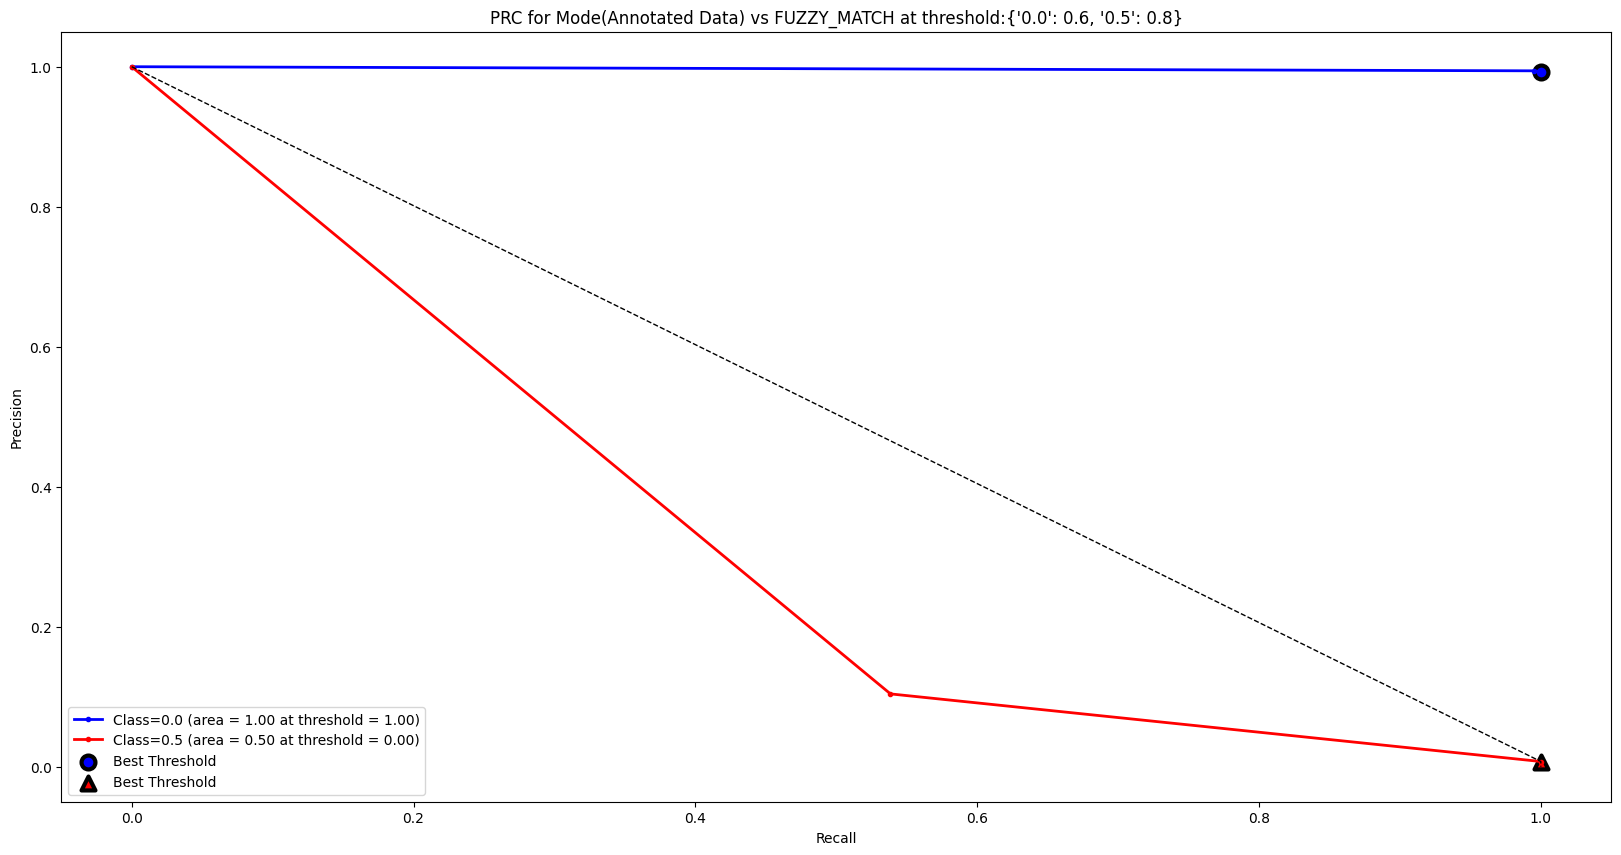
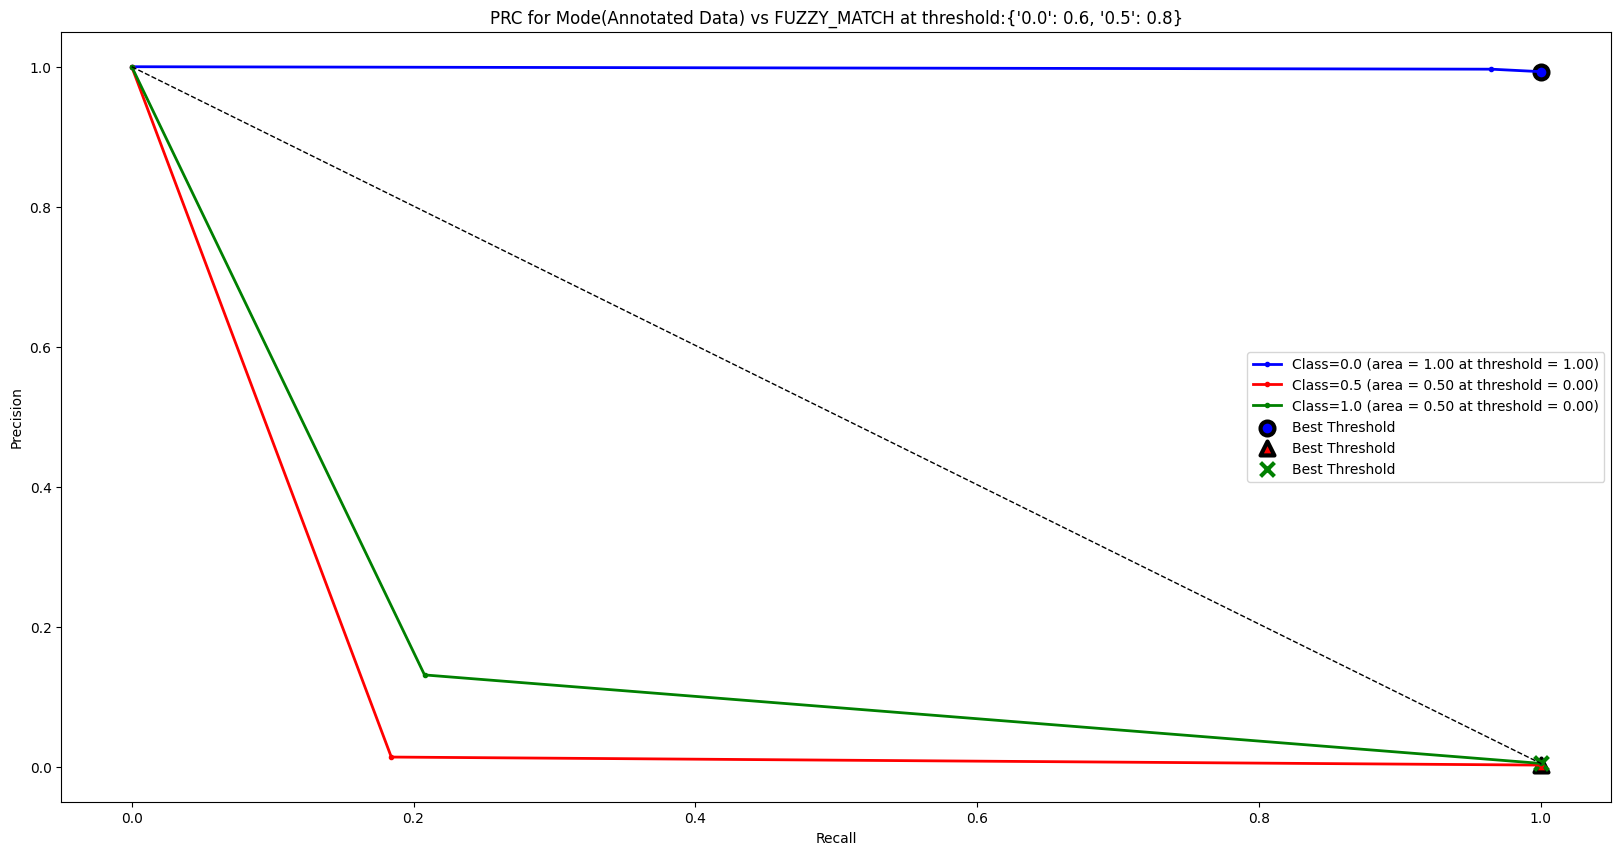
2

diff --git a/Implementation/AnnotatedDataHandler_2.py b/Implementation/AnnotatedDataHandler_2.py
@@ -101,7 +101,6 @@ class AnnotatedDataHandler:
         self.max_prc_dict = {}
         # Plot accessories
         self.classes = [self.class_unrelated, self.class_related, self.class_equal]
-        # self.classes = [self.class_unrelated, self.class_related]
         self.marker_set = ["o", "^", "x"]
         self.color_set = ["blue", "red", "green"]
         # Directories
@@ -144,8 +143,8 @@ class AnnotatedDataHandler:
                     if not isComputed:
                         attr = self.convertAnnotatedAttrValue(attr)
                     else:
-                        # attr = self.convertComputedAttrValue(attr, thresholds)
-                        attr = attr.strip()
+                        attr = self.convertComputedAttrValue(attr, thresholds)
+                        # attr = attr.strip()
                     cellData.append(attr)
                 if len(cellData) > 0:
                     data.append(cellData)
@@ -173,8 +172,8 @@ class AnnotatedDataHandler:
                     if not isComputed:
                         attr = self.convertAnnotatedAttrValue(attr)
                     else:
-                        # attr = self.convertComputedAttrValue(attr, thresholds)
-                        attr = attr.strip()
+                        attr = self.convertComputedAttrValue(attr, thresholds)
+                        # attr = attr.strip()
 
                     if attr == '':
                         self.log(["rowIterator:", rowIterator, ",colIterator:", colIterator, ",attr:", attr], "DEBUG")
@@ -248,7 +247,7 @@ class AnnotatedDataHandler:
         elif self.isFloat(attr) and thresholds[self.class_unrelated] <= float(attr) < thresholds[self.class_related]:
             return self.class_related
         elif self.isFloat(attr) and thresholds[self.class_related] <= float(attr):
-            return self.class_related
+            return self.class_equal
 
         # check if some float value was missed
         if self.isFloat(attr):
@@ -267,7 +266,7 @@ class AnnotatedDataHandler:
         elif attr == '<' or attr == '>':
             attr = self.class_related
         elif attr == '1':
-            attr = self.class_related
+            attr = self.class_equal
         # elif attr == '>':
         #     attr = "1.5"
 
@@ -347,20 +346,20 @@ class AnnotatedDataHandler:
             self.computed_data[model] = annotatedDataHandler.readCSVWithoutHeaders(
                 'Data/' + self.computational_iteration + "/" + str(
                     model) + '-table-V-' + syn_sem_threshold + '.csv',
-                True, thresholds={})
+                True, thresholds)
         else:
             self.computed_data[model] = annotatedDataHandler.readCSV(
                 'Data/' + self.computational_iteration + "/" + str(
                     model) + '-table-V-' + syn_sem_threshold + '.csv',
-                True, thresholds={})
+                True, thresholds)
         return self.computed_data[model]
 
     def readAllComputedData(self, readHeaders=False, thresholds={}):
 
         for model in self.computed_method:
-            self.read_computed_data_for_model(model, readHeaders, thresholds={})
+            self.read_computed_data_for_model(model, readHeaders, thresholds=thresholds)
             if model != self.FUZZY_WUZZY_INDEX:
-                self.read_computed_data_for_model(model+"_syn_and_sem", readHeaders, True, thresholds={})
+                self.read_computed_data_for_model(model+"_syn_and_sem", readHeaders, True, thresholds)
             self.log(["*"] * 80)
 
     def calculatePearsonScoreBetweenAnnotators(self):
@@ -725,14 +724,14 @@ class AnnotatedDataHandler:
 
         self.log("AUPRC Mode(Annotated Data) vs " + method_name)
         # # read all data produced by the computed method in 1 go
-        data_in_2d = self.read_computed_data_for_model(method_name, True, has_syn_sem_threshold, thresholds={})
+        data_in_2d = self.read_computed_data_for_model(method_name, True, has_syn_sem_threshold, thresholds)
         data_in_1d = annotatedDataHandler.collapseDataSetTo1d(data_in_2d)
 
         # development_x = [float(data_in_1d[i]) for i in dataset['dev_x_index']]
         development_x = [data_in_1d[i] for i in dataset['dev_x_index']]
-        # test_x = [data_in_1d[i] for i in dataset['test_x_index']]
+        test_x = [data_in_1d[i] for i in dataset['test_x_index']]
         development_y = dataset['dev_y']
-        # test_y = dataset['test_y']
+        test_y = dataset['test_y']
 
         plotTitle = 'PRC for Mode(Annotated Data) vs ' + method_name+ ' at threshold:'+str(thresholds)
         fig = plt.figure(figsize=(20, 10))
@@ -746,10 +745,9 @@ class AnnotatedDataHandler:
             other_class = [x for x in self.classes if x != positive_class]
 
             # marking the current class as 1 and all other classes as 0
-            new_actual_class = [0 if x in other_class else 1 for x in development_y]
-            # new_pred_similarities = [round(float(sim), 2) if not sim == '' and not sim == '-' else 0.0 for sim in
-            #                          test_x]
-            new_pred_similarities = [0 if x in other_class else 1 for x in development_x]
+            new_actual_class = [0 if x in other_class else 1 for x in test_y]
+            new_pred_similarities = [0 if x in other_class else 1 for x in test_x]
+            # new_pred_similarities = [round(float(sim), 2) if not sim == '' and not sim == '-' else 0.0 for sim in test_x]
 
             # print(new_pred_similarities)
             precision, recall, thresholds = precision_recall_curve(new_actual_class, new_pred_similarities)
@@ -791,25 +789,17 @@ class AnnotatedDataHandler:
 
         self.log("AUROC Mode(Annotated Data) vs " + method_name)
         # # read all data produced by the computed method in 1 go
-        data_in_2d = self.read_computed_data_for_model(method_name, True, has_syn_sem_threshold, thresholds={})
+        data_in_2d = self.read_computed_data_for_model(method_name, True, has_syn_sem_threshold, thresholds)
         data_in_1d = annotatedDataHandler.collapseDataSetTo1d(data_in_2d)
-
+        print(len(data_in_1d))
+        print(len(dataset['dev_x_index']))
         # development_x = [float(data_in_1d[i]) for i in dataset['dev_x_index']]
-        development_x = []
-        for i in dataset['dev_x_index']:
-            try:
-                development_x.append(data_in_1d[i])
-            except IndexError as e:
-                print("i:", i)
-                exit()
-
-        # development_x = [data_in_1d[i] for i in dataset['dev_x_index']]
-        # test_x = [data_in_1d[i] for i in dataset['test_x_index']]
+        development_x = [data_in_1d[i] for i in dataset['dev_x_index']]
+        test_x = [data_in_1d[i] for i in dataset['test_x_index']]
         development_y = dataset['dev_y']
-        # test_y = dataset['test_y']
+        test_y = dataset['test_y']
 
         plotTitle = 'ROC for Mode(Annotated Data) vs ' + method_name + ' at threshold:'+str(thresholds)
-
         fig = plt.figure(figsize=(20, 10))
         ax = fig.add_subplot(111)
         plt.xlabel('False Positive Rate')
@@ -821,9 +811,8 @@ class AnnotatedDataHandler:
             other_class = [x for x in self.classes if x != positive_class]
 
             # marking the current class as 1 and all other classes as 0
-
-            new_actual_class = [0 if x in other_class else 1 for x in development_y]
-            new_pred_similarities = [0 if x in other_class else 1 for x in development_x]
+            new_actual_class = [0 if x in other_class else 1 for x in test_y]
+            new_pred_similarities = [0 if x in other_class else 1 for x in test_x]
             # new_pred_similarities = [round(float(sim), 2) if not sim == '' and not sim == '-' else 0.0 for sim in test_x]
 
             # self.plot_roc_curve()
@@ -871,14 +860,6 @@ class AnnotatedDataHandler:
                                      "Conditions - positive class=" + self.class_unrelated
                                         , "Conditions - positive class=" + self.class_related
                                         , "Conditions - positive class=" + self.class_equal])
-
-                # csv_writer.writerow(["Outer Threshold", "Method name", "Inner Threshold", "AUC method",
-                #                      " AUC Score - " + self.class_unrelated, " AUC Score - " + self.class_related,
-                #                      "Conditions - positive class=" + self.class_unrelated
-                #                         , "Conditions - positive class=" + self.class_related]
-                #                      )
-
-
             else:
                 csv_writer.writerow(["Outer Threshold", "Method name", "0.0", "0.5"])
 
@@ -900,22 +881,12 @@ class AnnotatedDataHandler:
                              str(k_method_value["conditions"][1]),
                              str(k_method_value["conditions"][2])
                              ])
-                        # csv_writer.writerow(
-                        #     [k_outer_threshold, k_method_name, inner_threshold_str, auc_method,
-                        #      k_method_value["auc_score"][self.class_unrelated],
-                        #      k_method_value["auc_score"][self.class_related],
-                        #      str(k_method_value["conditions"][0]),
-                        #      str(k_method_value["conditions"][1]),
-                        #      ])
                     else:
                         for auc_object_classes in k_method_value:
                             csv_writer.writerow(
                                 [k_outer_threshold, k_method_name, auc_object_classes[self.class_unrelated],
-                                 auc_object_classes[self.class_related]])
-                            # csv_writer.writerow(
-                            #     [k_outer_threshold, k_method_name, auc_object_classes[self.class_unrelated],
-                            #      auc_object_classes[self.class_related]
-                            #         , auc_object_classes[self.class_equal]])
+                                 auc_object_classes[self.class_related]
+                                    , auc_object_classes[self.class_equal]])
 
             print("done")
 
@@ -1160,25 +1131,23 @@ modeAnnotatedData = annotatedDataHandler.calculateModeScoreBetweenAllAnnotators(
 flatAnnotatedData = annotatedDataHandler.collapseDataSetTo1d(modeAnnotatedData)
 
 dataset = {}
-
-print("len(flatAnnotatedData):",len(flatAnnotatedData))
 dataset['dev_x_index'], dataset['test_x_index'], dataset['dev_y'], dataset['test_y'] = train_test_split(
-    range(len(flatAnnotatedData)), flatAnnotatedData, test_size=0.3)
+    range(len(flatAnnotatedData)), flatAnnotatedData, test_size=0.4)
 
-# annotatedDataHandler.log(['Development: Class0=%d, Class1=%d, Class2=%d' % (
-#             len([t for t in dataset['dev_y'] if t == annotatedDataHandler.class_unrelated]),
-#             len([t for t in dataset['dev_y'] if t == annotatedDataHandler.class_related]),
-#             len([t for t in dataset['dev_y'] if t == annotatedDataHandler.class_equal]))], annotatedDataHandler.logTRACE)
+annotatedDataHandler.log(['Development: Class0=%d, Class1=%d, Class2=%d' % (
+            len([t for t in dataset['dev_y'] if t == annotatedDataHandler.class_unrelated]),
+            len([t for t in dataset['dev_y'] if t == annotatedDataHandler.class_related]),
+            len([t for t in dataset['dev_y'] if t == annotatedDataHandler.class_equal]))], annotatedDataHandler.logTRACE)
 
 # print('Threshold Selection: Class0=%d, Class1=%d, Class2=%d' %
 #       (len([t for t in threshold_selection_y if t == "0.0"]),
 #        len([t for t in threshold_selection_y if t == "0.5"]),
 #        len([t for t in threshold_selection_y if t == self.class_equal])))
 
-# annotatedDataHandler.log(['Test Selection: Class0=%d, Class1=%d, Class2=%d' % (
-#     len([t for t in dataset['test_y'] if t == annotatedDataHandler.class_unrelated]),
-#     len([t for t in dataset['test_y'] if t == annotatedDataHandler.class_related]),
-#     len([t for t in dataset['test_y'] if t == annotatedDataHandler.class_equal]))], annotatedDataHandler.logTRACE)
+annotatedDataHandler.log(['Test Selection: Class0=%d, Class1=%d, Class2=%d' % (
+    len([t for t in dataset['test_y'] if t == annotatedDataHandler.class_unrelated]),
+    len([t for t in dataset['test_y'] if t == annotatedDataHandler.class_related]),
+    len([t for t in dataset['test_y'] if t == annotatedDataHandler.class_equal]))], annotatedDataHandler.logTRACE)
 
 
 _result_roc_parentdir = annotatedDataHandler.roc_result_dir
@@ -1222,16 +1191,8 @@ while minFive<1:
             annotatedDataHandler.calculate_threshold_using_auroc(dataset, baseline_method, thresholds)
             annotatedDataHandler.calculate_threshold_using_auprc(dataset, baseline_method, thresholds)
 
-#
-# for baseline_method in annotatedDataHandler.computed_method:
-#     annotatedDataHandler.log(["method:",baseline_method])
-#     annotatedDataHandler.calculate_threshold_using_auroc(dataset, baseline_method)
-#     annotatedDataHandler.calculate_threshold_using_auprc(dataset, baseline_method)
-
-    break
 
 exit()
-
 
 for syn_sem_threshold in annotatedDataHandler.result_indexes:
 
